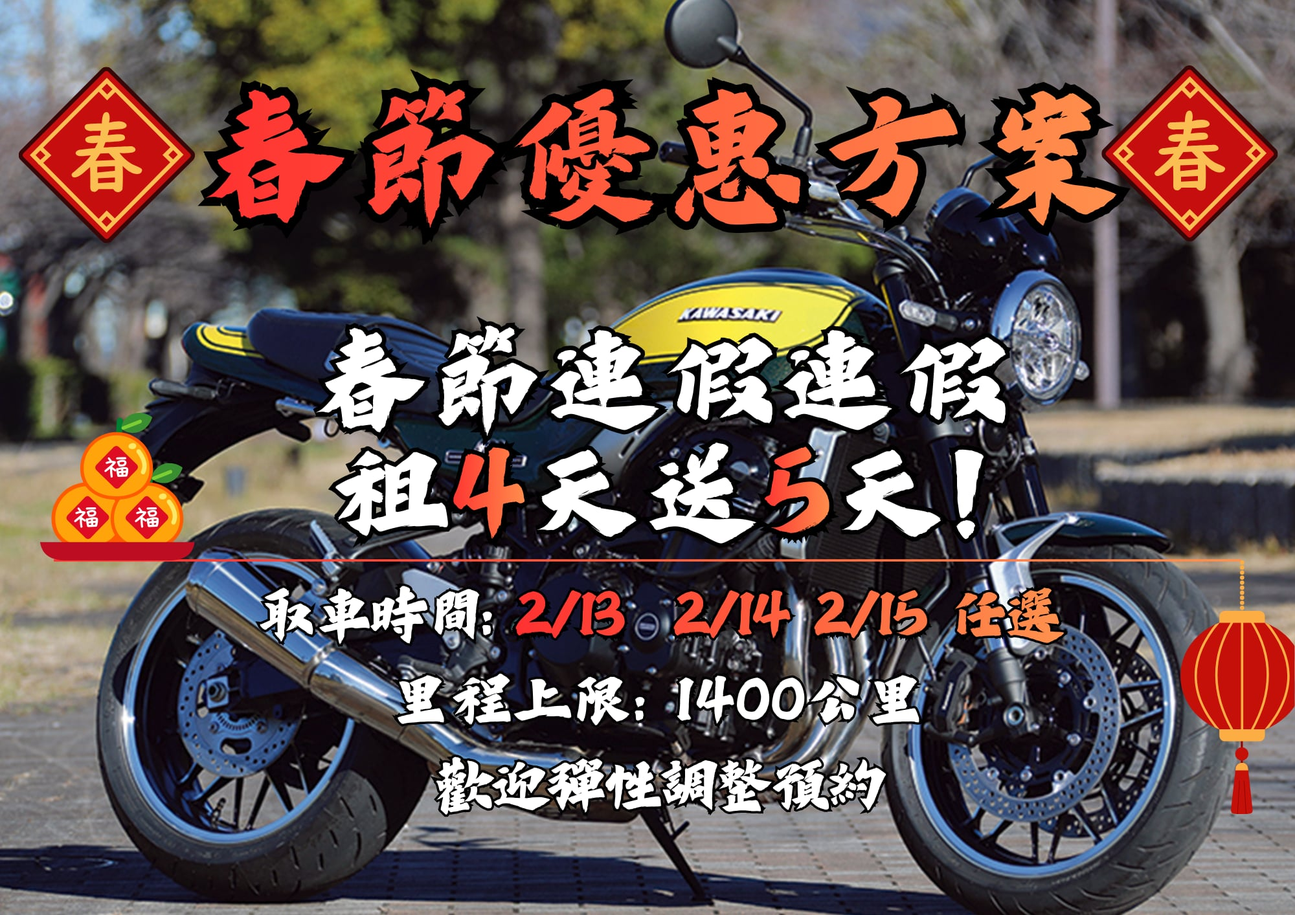
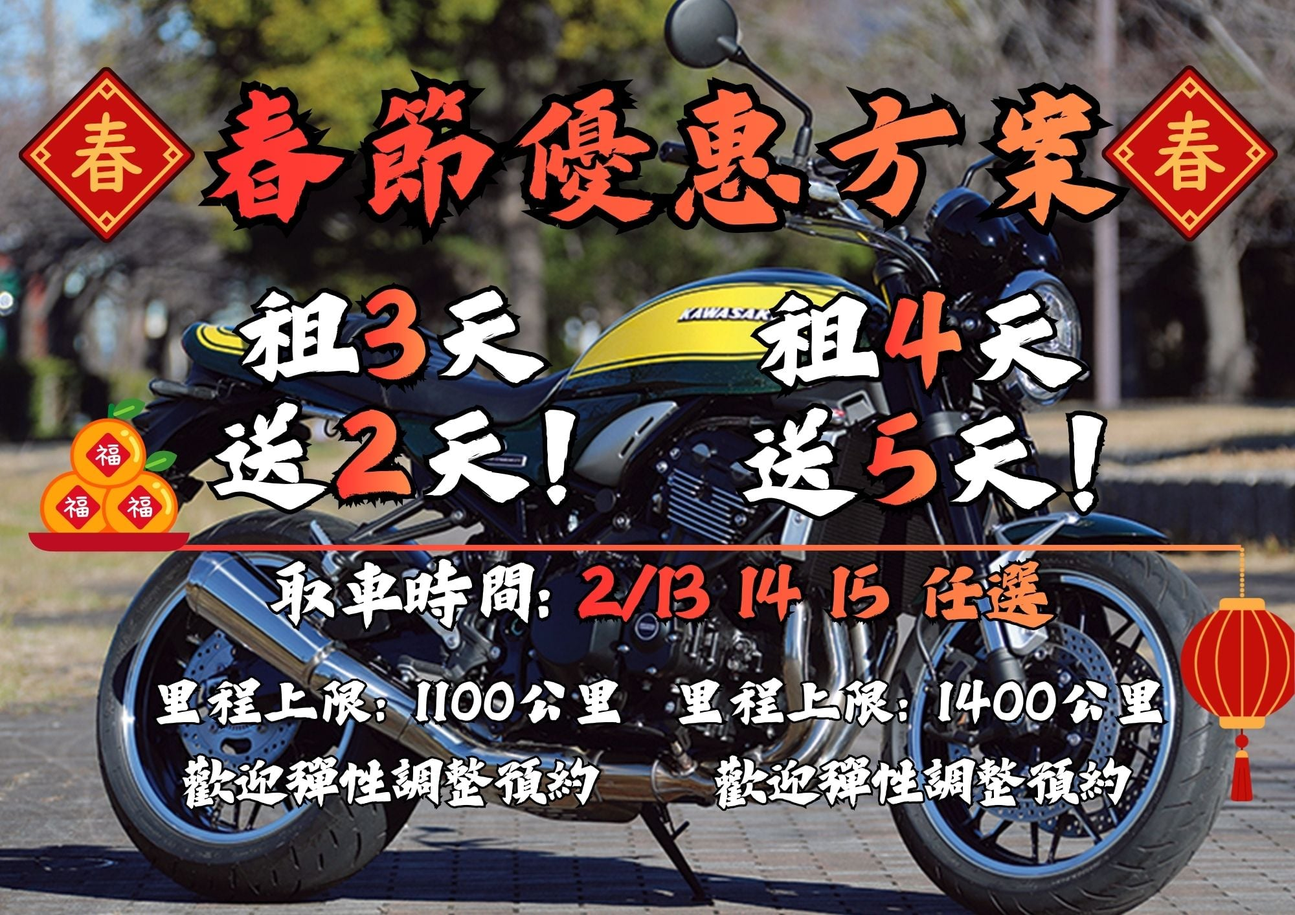
tmax news

Changed region(s): [[0.031, 0.3112, 1.0, 0.9024], [0.93, 0.8713, 0.992, 0.9024], [0.186, 0.1867, 0.217, 0.2178]]

diff --git a/news.html b/news.html
@@ -192,12 +192,13 @@ function gtag_report_conversion(url) {
 										
 										🎁本次春節優惠方案如下<br>
 										🏍輕檔車與大型重機全車系:<br>
-										享租四送五優惠🔥里程上限1400公里(可彈性調整)<br>
+										享租<b class="red-text">三</b>送<b class="red-text">二</b> or 租<b class="red-text">四</b>送<b class="red-text">五</b>優惠🔥
+										里程上限1400公里(可彈性調整)<br>
 										取車時間➜2/13~2/15 營業時間內<br>
 										免營損與道路救援保險比照租賃天數<br>
 										—————————————————————————————<br>
 										🚗MX-5 RF敞篷跑車:<br>
-										享租五送四優惠🔥里程上限2000公里(可彈性調整)<br>
+										享租<b class="red-text">五</b>送<b class="red-text">四</b>優惠🔥里程上限2000公里(可彈性調整)<br>
 										取車時間➜2/13、2/14 營業時間內<br>
 										免營損與道路救援保險比照租賃天數<br>																		
 										

diff --git a/css/style.css b/css/style.css
@@ -2637,3 +2637,10 @@ html {
     background-clip: content-box;
   }
 }
+
+
+
+.red-text {
+  color: red;
+  font-size: 30px;
+}
